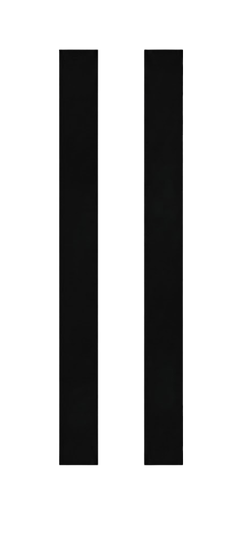
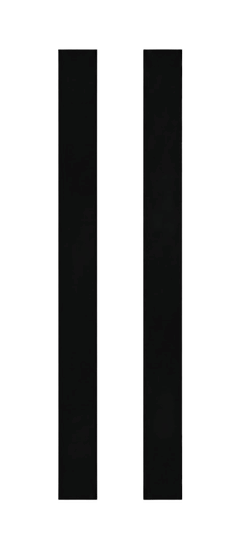
Fixed CA and F764 Glass Mappings

Changed region(s): [[0.5785, 0.0929, 0.781, 0.929], [0.2314, 0.0929, 0.4339, 0.929]]

diff --git a/src/components/DoorPreview.tsx b/src/components/DoorPreview.tsx
@@ -4,6 +4,7 @@ import { hardwareOptions, hardwarePreviewAssetUrl } from '../data/hardware'
 import { glassOptions } from '../data/glassOptions'
 import { resolveDoorPreviewCandidates } from '../data/doorPreviewAssets'
 import { glassDoorCodes } from '../data/productCatalog'
+import { resolveGlassMaskAsset } from '../data/glassMaskAssets'
 
 type Props = {
   style: DoorStyle
@@ -36,35 +37,8 @@ const FINISH_RENDERING = {
   stainGlossStrength: 0.72,
 } as const
 
-const EXPLICIT_GLASS_MASKS = {
-  F2: '/assets/masks/F2.png',
-  F3: '/assets/masks/F3.png',
-  HRT: '/assets/masks/HRT.png',
-} as const
-
-const GLASS_MASK_LOOKUP_KEYS: Record<string, keyof typeof EXPLICIT_GLASS_MASKS> = {
-  f2: 'F2',
-  diamond: 'F2',
-  f3: 'F3',
-  square: 'F3',
-  hrt: 'HRT',
-  halfroundtop: 'HRT',
-}
-
-function normalizeGlassMaskLookup(value: string) {
-  return value.toLowerCase().replace(/[^a-z0-9]/g, '')
-}
-
-function resolveGlassMaskAsset(doorCode: string | undefined) {
-  if (!doorCode) return null
-  const normalizedKey = normalizeGlassMaskLookup(doorCode)
-  const explicitKey = GLASS_MASK_LOOKUP_KEYS[normalizedKey]
-  const mappingKey = explicitKey ?? doorCode
-  const path = explicitKey ? EXPLICIT_GLASS_MASKS[explicitKey] : `/assets/masks/${doorCode}.png`
-  return { normalizedKey, mappingKey, path }
-}
-
 function buildPreviewMasks(mask: HTMLImageElement, slab: HTMLImageElement) {
+  if (mask.naturalWidth !== slab.naturalWidth || mask.naturalHeight !== slab.naturalHeight) return null
   const canvas = document.createElement('canvas')
   canvas.width = slab.naturalWidth
   canvas.height = slab.naturalHeight
@@ -76,17 +50,24 @@ function buildPreviewMasks(mask: HTMLImageElement, slab: HTMLImageElement) {
   // while the authored black glass openings stay excluded.
   context.fillStyle = '#fff'
   context.fillRect(0, 0, canvas.width, canvas.height)
-  context.drawImage(mask, 0, 0, canvas.width, canvas.height)
+  context.drawImage(mask, 0, 0)
   const maskPixels = context.getImageData(0, 0, canvas.width, canvas.height)
+  const glassPixels = new ImageData(new Uint8ClampedArray(maskPixels.data), canvas.width, canvas.height)
   for (let index = 0; index < maskPixels.data.length; index += 4) {
     const maskValue = Math.round((maskPixels.data[index] + maskPixels.data[index + 1] + maskPixels.data[index + 2]) / 3)
     maskPixels.data[index] = 255
     maskPixels.data[index + 1] = 255
     maskPixels.data[index + 2] = 255
     maskPixels.data[index + 3] = maskValue >= 128 ? 255 : 0
+    glassPixels.data[index] = 255
+    glassPixels.data[index + 1] = 255
+    glassPixels.data[index + 2] = 255
+    glassPixels.data[index + 3] = maskValue < 128 ? 255 : 0
   }
   context.putImageData(maskPixels, 0, 0)
-  return { finishUrl: canvas.toDataURL('image/png') }
+  const finishUrl = canvas.toDataURL('image/png')
+  context.putImageData(glassPixels, 0, 0)
+  return { finishUrl, glassUrl: canvas.toDataURL('image/png') }
 }
 
 function buildSolidSlabMask(slab: HTMLImageElement) {
@@ -106,14 +87,14 @@ export function DoorPreview({ style, finish, glass, hardware, compact = false, g
   const styleCodes = product?.styleCodes.length ? product.styleCodes : [style.code]
   const isGlassCapable = styleCodes.some((code) => glassDoorCodes.has(code))
   const maskCode = styleCodes.find((code) => glassDoorCodes.has(code))
-  const maskMapping = resolveGlassMaskAsset(maskCode)
-  const maskAsset = maskMapping?.path ?? null
+  const maskAsset = maskCode ? resolveGlassMaskAsset(maskCode) : null
   const maskKey = maskCode ?? 'solid-slab'
   const [previewImage, setPreviewImage] = useState(previewCandidates[0] ?? '')
   const hasMappedPreview = Boolean(previewCandidates.length)
   const finishColor = tintColor ?? finish.color
-  const [processedMask, setProcessedMask] = useState<{ source: string; finishUrl: string } | null>(null)
+  const [processedMask, setProcessedMask] = useState<{ source: string; finishUrl: string; glassUrl?: string } | null>(null)
   const finishMask = previewImage && processedMask?.source === previewImage ? processedMask.finishUrl : undefined
+  const glassMask = previewImage && processedMask?.source === previewImage ? processedMask.glassUrl : undefined
   const compatibleGlass = isGlassCapable ? glassOptions.filter((option) => styleCodes.some((code) => option.overlaysByDoorStyle[code])) : []
   const previewGlass = glass && compatibleGlass.some((option) => option.id === glass.id)
     ? glass
@@ -146,26 +127,35 @@ export function DoorPreview({ style, finish, glass, hardware, compact = false, g
         const suppliedMask = new Image()
         suppliedMask.onload = () => {
           if (cancelled) return
-          if (maskMapping && ['F2', 'F3', 'HRT'].includes(String(maskMapping.mappingKey))) {
+          if (import.meta.env.DEV) {
             console.info('[door-preview:glass-mask]', {
-              selectedGlassId: glass?.id ?? null,
-              normalizedLookupKey: maskMapping.normalizedKey,
-              resolvedMappingKey: maskMapping.mappingKey,
-              resolvedMaskPath: maskMapping.path,
+              selectedDoorStyleId: maskCode,
+              resolvedMappingKey: maskCode,
+              resolvedMappingPath: maskAsset,
               loaded: true,
+              maskDimensions: `${suppliedMask.naturalWidth}x${suppliedMask.naturalHeight}`,
+              doorPreviewDimensions: `${slab.naturalWidth}x${slab.naturalHeight}`,
             })
           }
           const masks = buildPreviewMasks(suppliedMask, slab)
+          if (!masks) {
+            console.error('[door-preview:glass-mask-dimension-mismatch]', {
+              selectedDoorStyleId: maskCode,
+              resolvedMappingKey: maskCode,
+              resolvedMappingPath: maskAsset,
+              maskDimensions: `${suppliedMask.naturalWidth}x${suppliedMask.naturalHeight}`,
+              doorPreviewDimensions: `${slab.naturalWidth}x${slab.naturalHeight}`,
+            })
+          }
           setProcessedMask(masks ? { source: candidate, ...masks } : null)
           setPreviewImage(candidate)
         }
         suppliedMask.onerror = () => {
           if (cancelled) return
           console.error('[door-preview:missing-finish-mask]', {
-            selectedGlassId: glass?.id ?? null,
-            normalizedLookupKey: maskMapping?.normalizedKey,
-            resolvedMappingKey: maskMapping?.mappingKey ?? maskCode,
-            resolvedMaskPath: maskAsset,
+            selectedDoorStyleId: maskCode,
+            resolvedMappingKey: maskCode,
+            resolvedMappingPath: maskAsset,
             loaded: false,
           })
           setProcessedMask(null)
@@ -179,7 +169,7 @@ export function DoorPreview({ style, finish, glass, hardware, compact = false, g
 
     tryNextCandidate()
     return () => { cancelled = true }
-  }, [previewCandidatesKey, isGlassCapable, maskKey, maskAsset, maskCode, maskMapping?.mappingKey, maskMapping?.normalizedKey, glass?.id])
+  }, [previewCandidatesKey, isGlassCapable, maskKey, maskAsset, maskCode])
 
   const finishLayerStyle = useMemo(() => {
     if (!applyFinish || !hasMappedPreview || !finishMask || !finishColor) return undefined
@@ -205,6 +195,16 @@ export function DoorPreview({ style, finish, glass, hardware, compact = false, g
     WebkitMaskImage: `url("${finishMask}")`,
     maskImage: `url("${finishMask}")`,
     opacity: FINISH_RENDERING.stainHighlightOpacity,
+  } as React.CSSProperties : undefined
+  const glassOverlayStyle = glassMask ? {
+    WebkitMaskImage: `url("${glassMask}")`,
+    maskImage: `url("${glassMask}")`,
+    WebkitMaskSize: 'contain',
+    maskSize: 'contain',
+    WebkitMaskPosition: 'center',
+    maskPosition: 'center',
+    WebkitMaskRepeat: 'no-repeat',
+    maskRepeat: 'no-repeat',
   } as React.CSSProperties : undefined
   const requestedHardwareImage = selectedHardwareImage || hardwarePreviewAssetUrl(previewHardware, previewView, doorSwing)
   const [hardwareImage, setHardwareImage] = useState(requestedHardwareImage)
@@ -247,7 +247,7 @@ export function DoorPreview({ style, finish, glass, hardware, compact = false, g
           {finishLayerStyle && <div className={`door-finish-layer door-finish-layer-${finish.finishType}`} style={finishLayerStyle} />}
           {previewImage && finishLayerStyle && <img className="door-detail-image" src={previewImage} alt="" decoding="async" style={detailLayerStyle} onLoad={(event) => { event.currentTarget.style.display = '' }} onError={(event) => { event.currentTarget.style.display = 'none' }} />}
           {stainHighlightStyle && <div className="door-stain-highlight" style={stainHighlightStyle} />}
-          {glassOverlay && <img className="door-glass-overlay" src={glassOverlay} alt="" decoding="async" onLoad={(event) => { event.currentTarget.style.display = '' }} onError={(event) => { event.currentTarget.style.display = 'none' }} />}
+          {glassOverlay && <img className="door-glass-overlay" src={glassOverlay} alt="" decoding="async" style={glassOverlayStyle} onLoad={(event) => { event.currentTarget.style.display = '' }} onError={(event) => { event.currentTarget.style.display = 'none' }} />}
           {hardwareImage && <div className={`hardware hardware-${previewHardware.type}`} style={{ '--metal': previewHardware.color } as React.CSSProperties}>
             <img src={hardwareImage} alt="" decoding="async" onLoad={(event) => { event.currentTarget.style.display = '' }} onError={(event) => {
               console.warn('[door-preview:failed-hardware-overlay]', {

diff --git a/src/data/glassMaskAssets.ts b/src/data/glassMaskAssets.ts
@@ -1,0 +1,36 @@
+export const glassMaskAssets = {
+  '3LT': '/assets/masks/3LT.png',
+  '3STEP': '/assets/masks/3STEP.png',
+  '4LT': '/assets/masks/4LT.png',
+  '5LT': '/assets/masks/5LT.png',
+  CA: '/assets/masks/CA.png',
+  CR14: '/assets/masks/CR14.png',
+  CR14PL: '/assets/masks/CR14PL.png',
+  F: '/assets/masks/F.png',
+  F2: '/assets/masks/F2.png',
+  F3: '/assets/masks/F3.png',
+  F4: '/assets/masks/F4.png',
+  F48: '/assets/masks/F48.png',
+  F482: '/assets/masks/F482.png',
+  F764: '/assets/masks/F764.png',
+  F848: '/assets/masks/F848.png',
+  FO: '/assets/masks/FO.png',
+  FRT: '/assets/masks/FRT.png',
+  HRT: '/assets/masks/HRT.png',
+  QA: '/assets/masks/QA.png',
+  S: '/assets/masks/S.png',
+  S2: '/assets/masks/S2.png',
+  S3: '/assets/masks/S3.png',
+  S4: '/assets/masks/S4.png',
+  S836: '/assets/masks/S836.png',
+  SAT: '/assets/masks/SAT.png',
+  SO: '/assets/masks/SO.png',
+  SO2: '/assets/masks/SO2.png',
+  SW: '/assets/masks/SW.png',
+} as const
+
+export type GlassMaskCode = keyof typeof glassMaskAssets
+
+export function resolveGlassMaskAsset(doorStyleCode: string) {
+  return glassMaskAssets[doorStyleCode as GlassMaskCode] ?? null
+}

diff --git a/src/data/productCatalog.ts b/src/data/productCatalog.ts
@@ -2,7 +2,7 @@ import type { DoorLine, DoorLineChoice, DoorStyle, DoorTypeOption, Finish, Resol
 import { getDoorStyleThumbnailAsset } from './doorStyleThumbnailAssets'
 
 export const glassDoorCodes = new Set([
-  '3LT', '3STEP', '4LT', '5LT', 'CR14', 'CR14PL', 'F', 'F2', 'F3', 'F4', 'F48', 'F482',
+  '3LT', '3STEP', '4LT', '5LT', 'CA', 'CR14', 'CR14PL', 'F', 'F2', 'F3', 'F4', 'F48', 'F482',
   'F764', 'F848', 'FO', 'FRT', 'HRT', 'QA', 'S', 'S2', 'S3', 'S4', 'S836', 'SAT',
   'SO', 'SO2', 'SW',
 ])